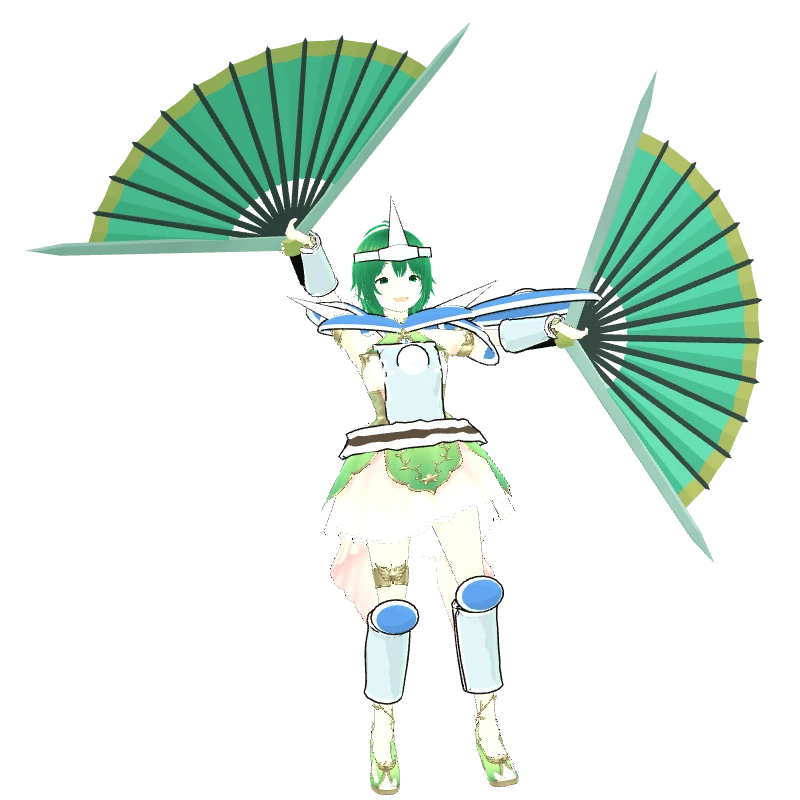
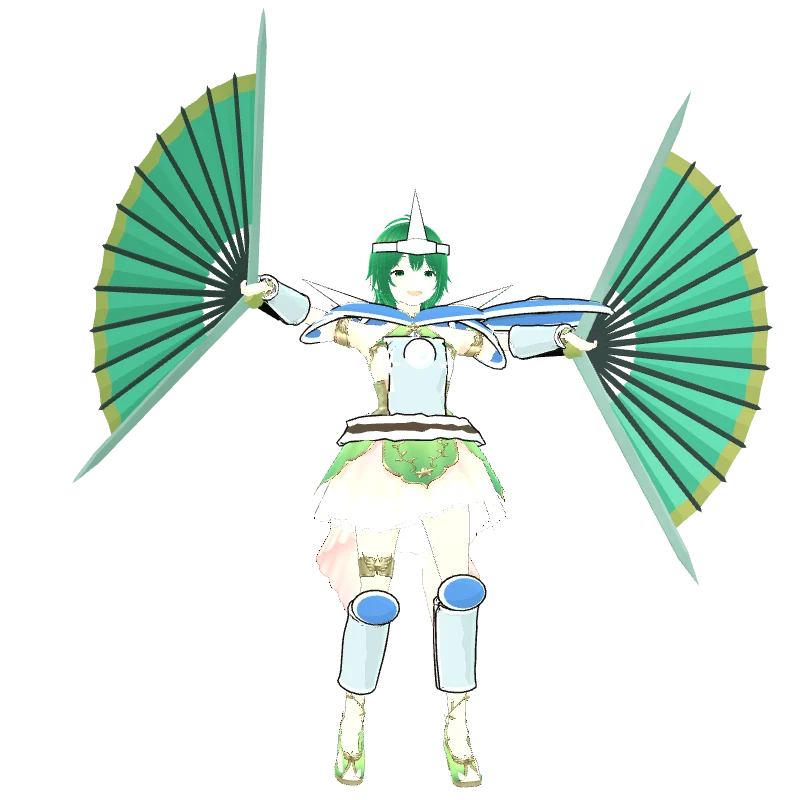
フウカの決めポーズ: 右腕を左腕と対にして横へ広げ、体の傾きをなくす (v1.17.9)

diff --git a/src/poses.js b/src/poses.js
@@ -9,7 +9,7 @@ export const HERO_POSES = {
   setsuna: { cand: 0, cam: { yaw: -30, pitch: -10 } },
   raika: { p: { az: 15, el: -15, bend: 85, wr: 80, azL: 25, elL: 105, bendL: 70, wrL: 135, tw: 20, lean: 20, crouch: 0.4, stance: 1.0, head: -20 }, cam: { yaw: -65, pitch: -8 } },
   gandou: { p: { az: -150, el: 40, bend: 150, wr: 40, tw: -15, lean: 10, crouch: 0.5, stance: 0, wide: 0.45, head: 0 }, cam: { yaw: -20, pitch: -10 } },
-  fuuka: { p: { az: -70, el: 65, bend: 75, wr: 0, roll: 90, azL: 75, elL: 0, bendL: 70, wrL: 0, rollL: 90, tw: 0, lean: 0, crouch: 0.05, stance: 0.3, side: 6, head: 0, face: { relaxed: 0.7, happy: 0.25, aa: 0.3 } }, cam: { yaw: -10, pitch: -6 } },
+  fuuka: { p: { az: -75, el: 20, bend: 70, wr: 0, roll: 90, azL: 75, elL: 0, bendL: 70, wrL: 0, rollL: 90, tw: 0, lean: 0, crouch: 0.05, stance: 0.3, side: 0, head: 0, face: { relaxed: 0.7, happy: 0.25, aa: 0.3 } }, cam: { yaw: -10, pitch: -6 } },
   yomi: { cand: 1, cam: { yaw: 15, pitch: -10 } },
   zenova: { cand: 1, cam: { yaw: 15, pitch: -14 } },
 };

diff --git a/sw.js b/sw.js
@@ -1,6 +1,6 @@
 // サービスワーカー: 全ファイルをキャッシュしてオフラインでも遊べるようにする
 // ※ ゲームを更新したら CACHE の番号を上げてください(古いキャッシュが破棄されます)
-const CACHE = 'seiga-v1.17.8';
+const CACHE = 'seiga-v1.17.9';
 const FILES = [
   './', 'index.html', 'manifest.webmanifest', 'css/style.css', 'vendor/three.module.min.js',
   'icons/icon-192.png', 'icons/icon-512.png', 'icons/icon-maskable-512.png', 'icons/apple-touch-icon.png',

diff --git a/src/config.js b/src/config.js
@@ -4,7 +4,7 @@
 // 空のままでも、ゲーム内「設定」画面から個別にURLを入力できます。
 export const CLOUD_URL = 'https://script.google.com/macros/s/AKfycbwIXAdAaQbAvjuTPs3f40_3I8KxJB3mKbrFkAzfM-IuFDj_kmxqeDuisBGuqbjSZOJp1Q/exec';
 
-export const VERSION = '1.17.8';
+export const VERSION = '1.17.9';
 
 // VRoid のキャラ(VRM)。ファイルを vrm/ フォルダに入れ、武将ID: パス を書くと差し替わります
 // 武将ID: reiga / setsuna / raika / gandou / fuuka / yomi
